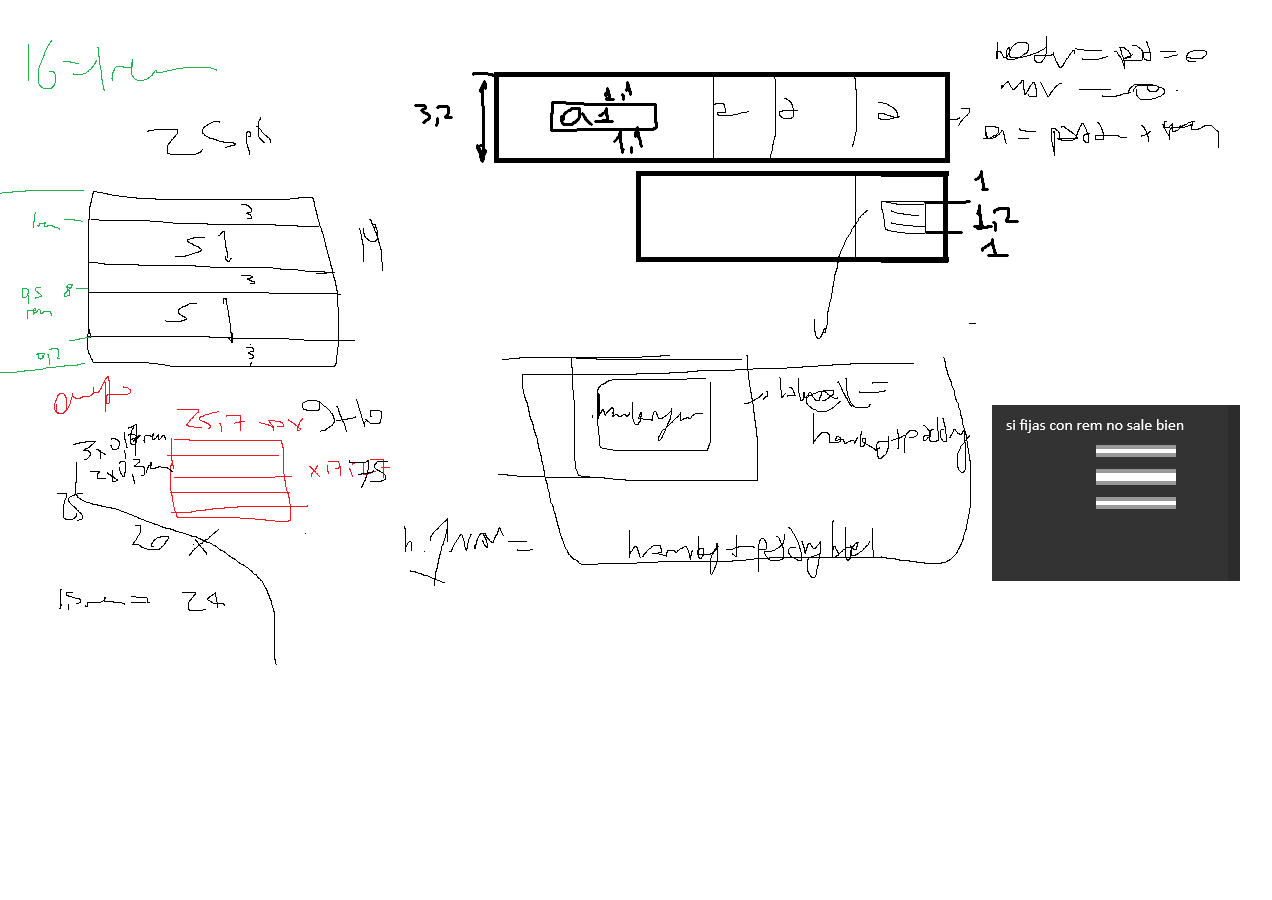
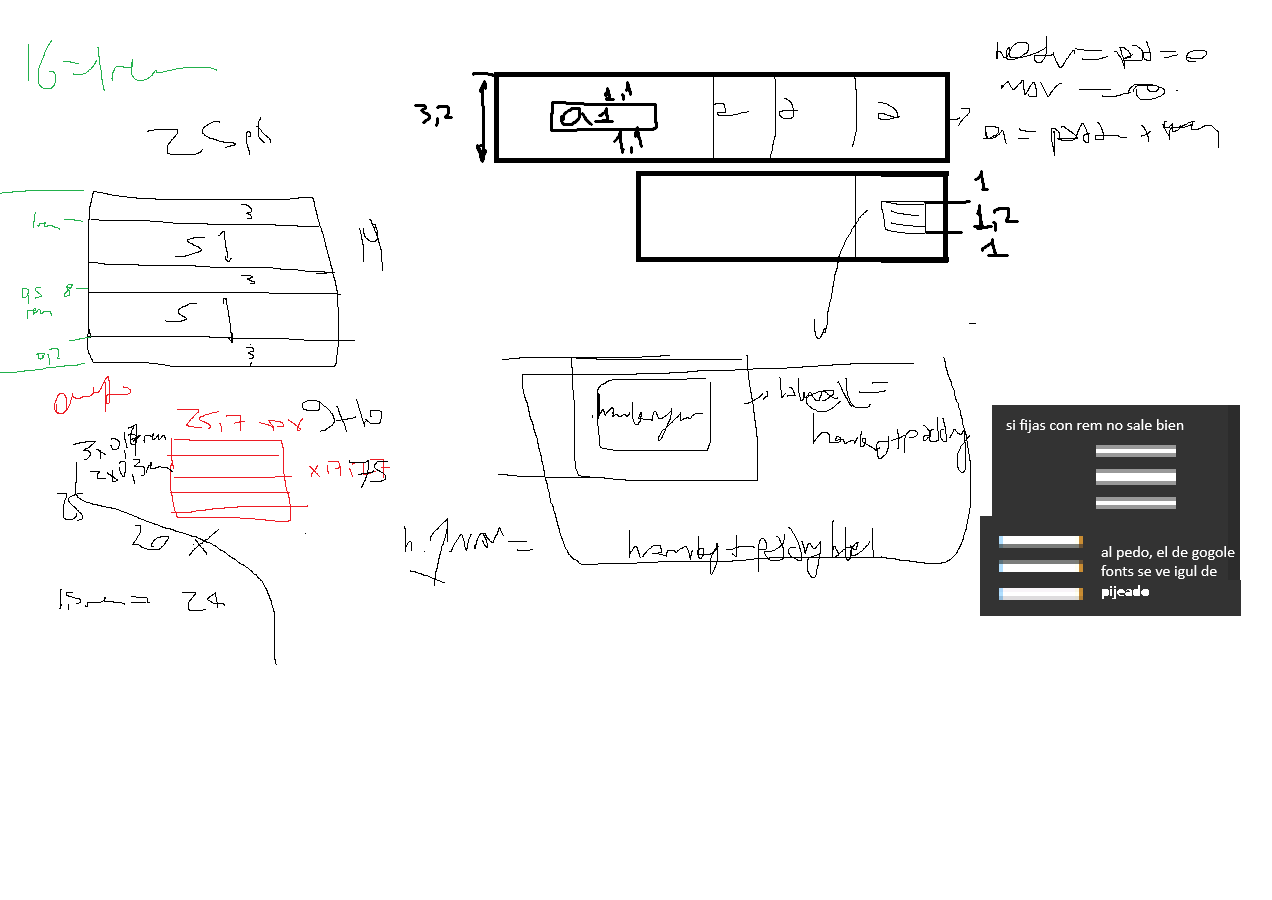
navbar con icono hamburguesa de google fonts ya alineado

Changed region(s): [[0.7665, 0.56, 0.9811, 0.6844]]

diff --git a/estilos.css b/estilos.css
@@ -22,7 +22,6 @@ h1, h2, h3, h4, h5, h6 {
 
 /* ------ Barra de navegación ------ */
 
-
 /* Navegación por defecto: escritorio - oculto icono hamburguesa y muestro lista horizontal */
 /* .hamburguer-lines no se muestra (display:none) y .nav-links si (display:flex); se invierten en mobile */
 /*altura header en escritorio deberia ser = a la del mobile (que es 3.2rem) =
@@ -43,7 +42,7 @@ header {
 .logo{
     display:block;
     color: white;
-    font-size: 1.6 rem;
+    font-size: 1.2rem;
     font-weight: bold;
     margin: auto 1rem;
 }
@@ -64,10 +63,10 @@ nav {
 }
 .nav-links a {
     display: block;
-    font-size: 1rem;
     padding: 1rem;
     color: white;
     text-decoration: none;
+    /*font-size se pone de forma automática en 19.08 px, no se como modificarlo */
 }
 
 .nav-links a:hover {
@@ -79,10 +78,21 @@ nav {
     display: none;
 }
 
-/* las 3 raytitas (son los span contenidos dentro del label.hamburguer-lines) */
+/* Estilos menú hamburguesa google fonts */
+.material-symbols-outlined {
+    color: white;
+    font-size: 1.4rem !important;
+    padding: 0.9rem;
+   
+}
 .hamburger-lines {
+    display: none;
+}
+
+/* las 3 raytitas (son los span contenidos dentro del label.hamburguer-lines) */
+/* .hamburger-lines {
     cursor: pointer;
-    display: none; /*En modo de escritorio no se muestra, se cambia a display flex solamente en móvil*/
+    display: none; En modo de escritorio no se muestra, se cambia a display flex solamente en móvil
     flex-direction: column;
     gap: 0.3rem;
     padding: 1rem;
@@ -93,6 +103,7 @@ nav {
     height: 0.2rem;
     background-color: white;
 }
+*/
 /* altura del icono de hamburguesa 1.2 rem */
 /* altura de .hamburguer-lines con padding inlcuido = 3.2 rem [es la del header completo] */
 
@@ -103,7 +114,6 @@ nav {
     .hamburger-lines {
         display: flex;
     }
-
     .nav-links {
         display: none; /*por defecto oculta la lista en pantallas chicas*/
         flex-direction: column;

diff --git a/index.html b/index.html
@@ -15,6 +15,7 @@
 	<link rel="preconnect" href="https://fonts.googleapis.com">	
 	<link rel="preconnect" href="https://fonts.gstatic.com" crossorigin>
 	<link href="https://fonts.googleapis.com/css2?family=Inter:ital,opsz,wght@0,14..32,100..900;1,14..32,100..900&display=swap" rel="stylesheet">
+	<link rel="stylesheet" href="https://fonts.googleapis.com/css2?family=Material+Symbols+Outlined:opsz,wght,FILL,GRAD@24,400,0,0&icon_names=dehaze" />
 
 	<title>Mi portfolio</title>
 </head>
@@ -27,9 +28,7 @@
 			<input type="checkbox" id="menu-toggle"/>
 			<!-- El icono hamburguesa 3 rayas-->
 			<label for="menu-toggle" class="hamburger-lines">
-				<span></span>
-				<span></span>
-				<span></span>
+				<span class="material-symbols-outlined">dehaze</span>
 			</label>
 
 			<ul class="nav-links">
